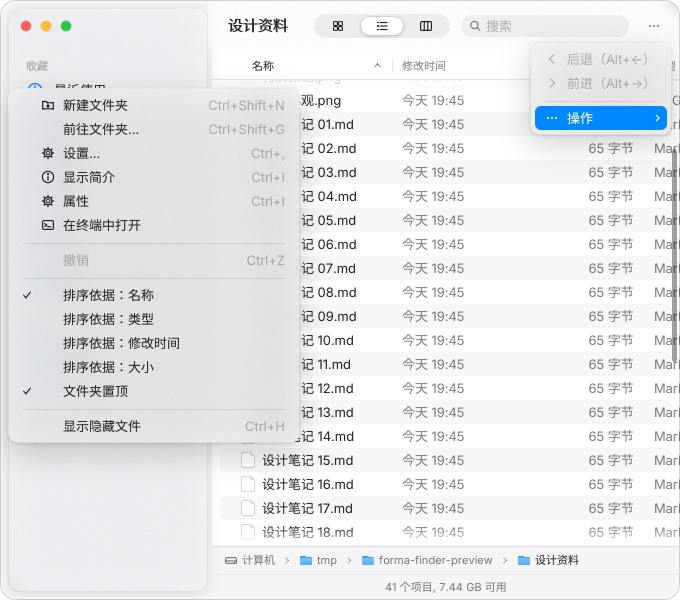
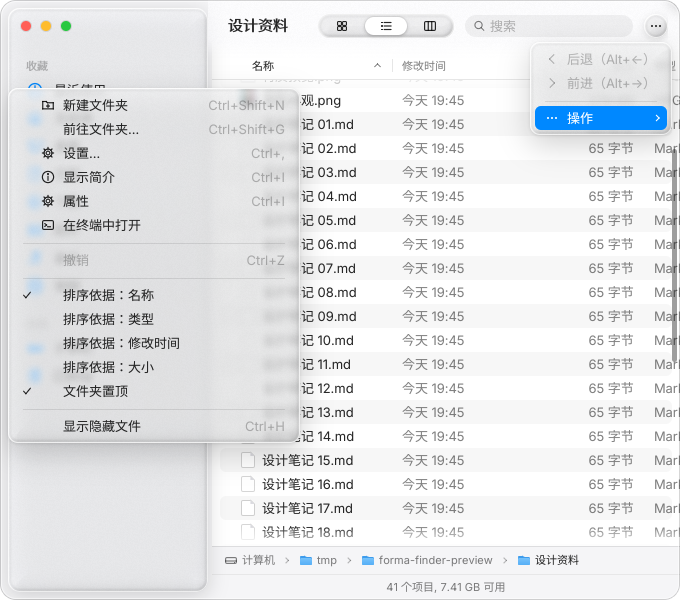
Give liquid glass stronger refraction and visible surface lighting

diff --git a/src/theme/theme.cpp b/src/theme/theme.cpp
@@ -54,8 +54,16 @@ MaterialStyle Theme::material(Material m) const {
     s.border = dark ? Color::white(0.10f) : Color::black(0.07f);
     switch (m) {
         case Material::Sidebar:
-            s.blurRadius = 30;
-            s.tint = dark ? Color::rgb8(44, 44, 48, 0.62f) : Color::rgb8(246, 246, 250, 0.62f);
+            s.blurRadius = 14;
+            s.tint = dark ? Color::rgb8(26, 28, 34, 0.18f) : Color::rgb8(246, 249, 255, 0.22f);
+            s.saturation = 1.55f;
+            s.bezelWidth = 22;
+            s.refraction = 24;
+            s.rimStrength = dark ? 0.58f : 0.68f;
+            s.toneLow = dark ? 0.06f : 0.40f;
+            s.toneHigh = dark ? 0.34f : 1.0f;
+            s.highlight = Color::transparent();
+            s.border = dark ? Color::white(0.22f) : Color::white(0.65f);
             break;
         case Material::Titlebar:
             s.blurRadius = 20;
@@ -64,25 +72,31 @@ MaterialStyle Theme::material(Material m) const {
             s.border = Color::transparent();
             break;
         case Material::Popover:
-            s.blurRadius = 30;
-            s.tint = dark ? Color::rgb8(46, 46, 50, 0.80f) : Color::rgb8(248, 248, 250, 0.80f);
-            break;
         case Material::Menu:
-            s.blurRadius = 30;
-            s.tint = dark ? Color::rgb8(40, 40, 44, 0.74f) : Color::rgb8(244, 244, 246, 0.74f);
+            s.blurRadius = 8;
+            s.tint = dark ? Color::rgb8(24, 26, 32, 0.16f) : Color::rgb8(250, 252, 255, 0.18f);
+            s.saturation = 1.5f;
+            s.bezelWidth = 18;
+            s.refraction = 22;
+            s.rimStrength = dark ? 0.58f : 0.68f;
+            s.toneLow = dark ? 0.08f : 0.56f;
+            s.toneHigh = dark ? 0.36f : 1.0f;
+            s.highlight = Color::transparent();
+            s.border = dark ? Color::white(0.24f) : Color::white(0.72f);
             break;
         case Material::Glass:
         case Material::GlassClear:
-            s.blurRadius = m == Material::GlassClear ? 1.5f : 8.0f;
-            s.saturation = 1.15f;
-            s.tint = dark ? Color::white(0.04f) : Color::white(0.08f);
+            s.blurRadius = m == Material::GlassClear ? 1.5f : 3.5f;
+            s.saturation = 1.6f;
+            s.tint = dark ? Color::white(0.025f) : Color::white(0.04f);
             s.highlight = Color::transparent();
-            s.bezelWidth = 12;
-            s.refraction = 8;
-            s.rimStrength = dark ? 0.22f : 0.32f;
+            s.bezelWidth = 18;
+            s.refraction = 22;
+            s.rimStrength = dark ? 0.62f : 0.76f;
+            s.border = dark ? Color::white(0.25f) : Color::white(0.78f);
             if (m == Material::Glass) {
-                s.toneLow = dark ? 0.10f : 0.50f;
-                s.toneHigh = dark ? 0.48f : 1.0f;
+                s.toneLow = dark ? 0.07f : 0.30f;
+                s.toneHigh = dark ? 0.40f : 1.0f;
             } else {
                 s.toneLow = dark ? 0.02f : 0.08f;
                 s.toneHigh = dark ? 0.92f : 1.0f;

diff --git a/src/widgets/toolbar.cpp b/src/widgets/toolbar.cpp
@@ -143,7 +143,7 @@ void ToolbarView::updateOverflow(Size available) {
     if (!m_more) {
         m_more = std::make_shared<ButtonView>(std::string{});
         m_more->setIcon(Icon::Ellipsis);
-        m_more->setStyle(ButtonStyle::Borderless);
+        m_more->setStyle(ButtonStyle::Glass);
         m_more->setTooltip("更多操作");
         const auto weak = weak_from_this();
         m_more->setOnClick([weak] {
@@ -300,7 +300,7 @@ void ToolbarGroupView::draw(Painter& p) {
     const Theme& t = theme();
     Rect r = frame();
     float radius = r.height * 0.5f;
-    p.drawShadow(r, radius, t.colors.shadow.multipliedAlpha(t.isDark() ? 0.6f : 0.35f), 10, {0, 2});
+    p.drawShadow(r, radius, t.colors.shadow.multipliedAlpha(t.isDark() ? 0.8f : 0.65f), 14, {0, 3});
     p.drawMaterial(r, radius, Material::Glass);
     paintChildren(p);
 }

diff --git a/applications/finder/main.cpp b/applications/finder/main.cpp
@@ -236,6 +236,7 @@ int main(int argc, char** argv) {
     auto forwardButton = Button(Icon::ChevronRight).style(ButtonStyle::Borderless).tooltip("前进（Alt+→）");
     auto titleLabel = Label("").font(TextStyle::Title3).lineLimit(1).maxWidth(320);
     auto viewControl = SegmentedControl({Icon::Grid, Icon::List, Icon::Columns}, 0);
+    viewControl.background(Material::Glass).cornerRadius(theme().metrics.controlHeight * 0.5f);
     viewControl.tooltip("视图（Ctrl+1、Ctrl+2、Ctrl+3）");
     auto actionMenu = Menu("", {}).icon(Icon::Ellipsis).borderless().tooltip("操作");
     auto searchField = SearchField("搜索").width(170);

diff --git a/src/widgets/split_view.cpp b/src/widgets/split_view.cpp
@@ -126,7 +126,7 @@ void SplitViewView::draw(Painter& p) {
         // Floating Liquid Glass panel.
         Rect panel = sidebarPanel();
         const float radius = std::max(t.metrics.sidebarRadius, t.metrics.windowRadius - t.metrics.sidebarInset);
-        p.drawShadow(panel, radius, Color::black(t.isDark() ? 0.35f : 0.10f), 14, {0, 2});
+        p.drawShadow(panel, radius, Color::black(t.isDark() ? 0.45f : 0.16f), 20, {0, 4});
         p.drawMaterial(panel, radius, Material::Sidebar);
         p.pushClip(panel, radius);
         m_sidebar->paint(p);

diff --git a/docs/framework.md b/docs/framework.md
@@ -386,6 +386,12 @@ Materials sample content already drawn inside the window; they do not blur other
 windows or the desktop wallpaper. The new `MaterialStyle` lens and tone fields
 default to a flat, identity mapping for existing custom materials.
 
+The glass presets use a broad reflective shoulder, a bright rim and a shallow
+inner shadow so their thickness remains visible on plain backgrounds. Sidebar,
+menu and popover materials use the same lens treatment with stronger frosting
+and a constrained tone range for readable labels. Finder's view switcher and
+the toolbar overflow button also use glass.
+
 `ScrollView(content).scrollEdge(ScrollEdgeStyle::Soft)` adds a fading edge where
 content continues beyond the viewport. `Hard` draws frosted edges; `None` is the
 default. The optional second argument controls edge height in points. Edges stay

diff --git a/README.md b/README.md
@@ -138,7 +138,7 @@ makepkg -si
 | `packaging/arch-media` | 照片、视频播放器 |
 | `packaging/arch-appstore` | 应用商店 |
 
-更新文件管理器（当前打包版本 `0.1.0-11`）可在仓库根目录执行；`-f` 会重新构建已有的同版本安装包：
+更新文件管理器（当前打包版本 `0.1.0-12`）可在仓库根目录执行；`-f` 会重新构建已有的同版本安装包：
 
 ```sh
 git pull --ff-only origin master
